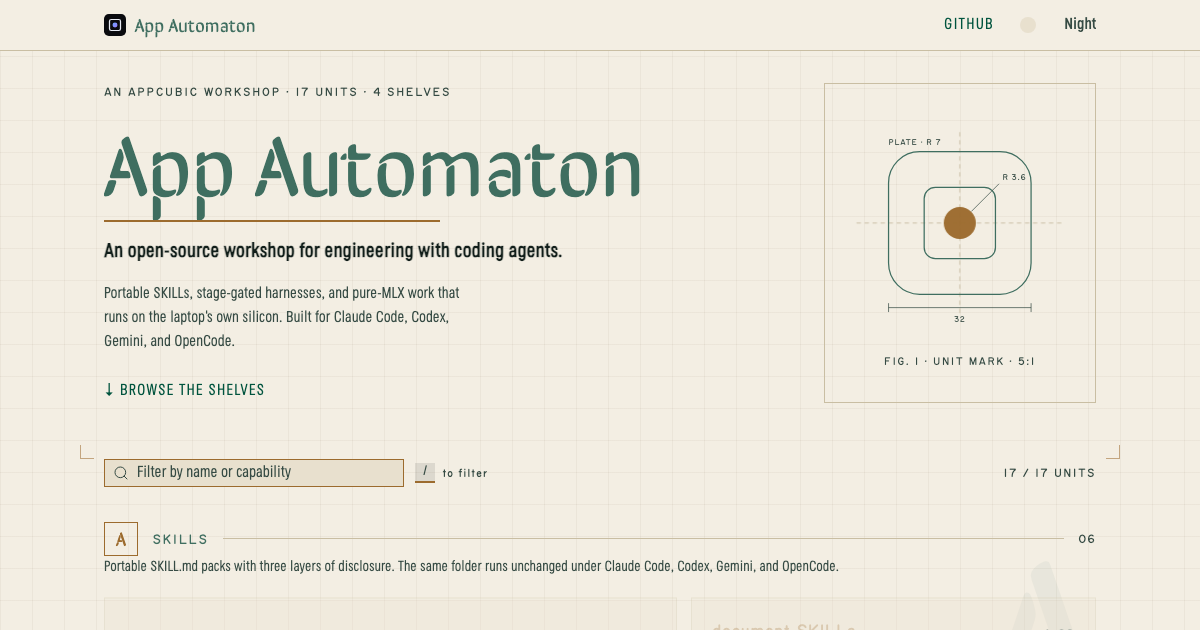
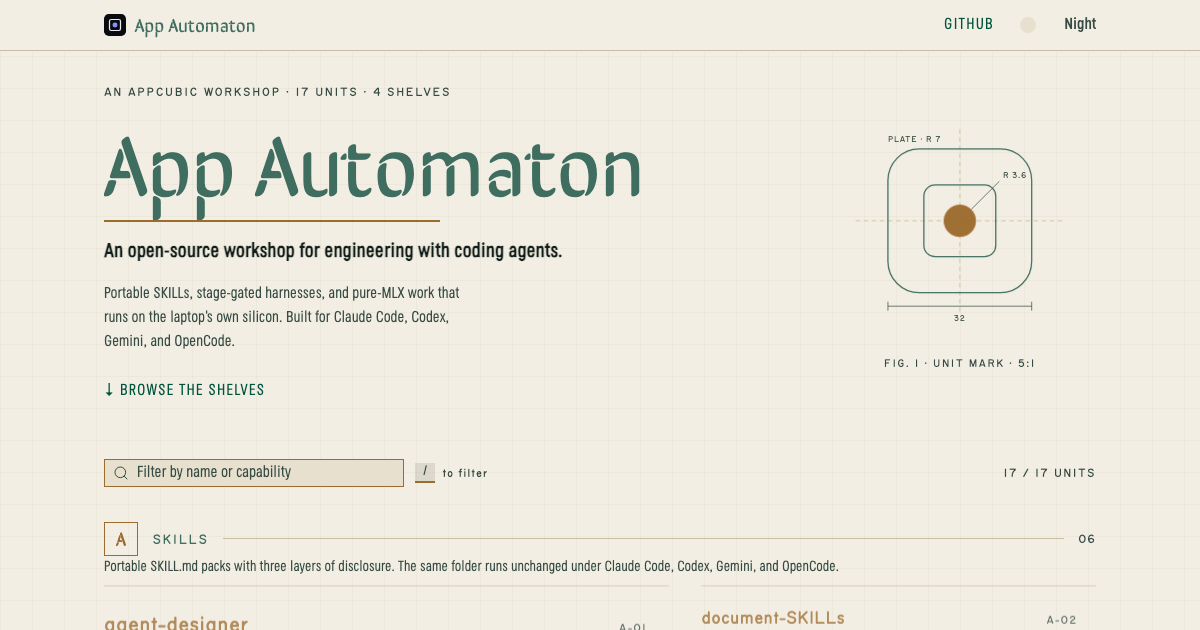
Strip the catalog to gallery restraint
The dark catalog was carrying three competing texture layers: a drafting
grid behind everything, a border-and-fill box plus inset sheen on every
card, ghost shelf letters, and hero registration marks. Toward a quiet
high-museum feel, cut all of it. The grid stays a whisper in day and goes
fully dark at night. Each project becomes a wall-label: no box, no fill, a
single hairline top rule, generous space, and a faint spotlight wash on
hover. The hero mark floats unframed. Also fix a mobile overflow the old
12-track bento caused by forcing eleven column-gaps at every width.

diff --git a/src/workshop.css b/src/workshop.css
@@ -83,58 +83,21 @@
   animation: aa-fade-up 480ms ease 1020ms forwards;
 }
 
-/* Registration marks: the drawing is signed off last. */
-@keyframes aa-reg-in {
-  to {
-    opacity: 0.55;
-  }
-}
-
-.aa-reg {
-  position: absolute;
-  width: 14px;
-  height: 14px;
-  opacity: 0;
-  border: 0 solid var(--aa-brass);
-  animation: aa-reg-in 420ms ease 1180ms forwards;
-  pointer-events: none;
-}
-
-.aa-reg-tl { top: 0; left: 0; border-top-width: 1px; border-left-width: 1px; }
-.aa-reg-tr { top: 0; right: 0; border-top-width: 1px; border-right-width: 1px; }
-.aa-reg-bl { bottom: 0; left: 0; border-bottom-width: 1px; border-left-width: 1px; }
-.aa-reg-br { bottom: 0; right: 0; border-bottom-width: 1px; border-right-width: 1px; }
-
-/* --- Catalog cards: quiet at rest, precise on approach ------------------- */
+/* --- Catalog: each project is a museum wall-label ------------------------
+   No box, no fill. A single hairline top rule, generous space, and a quiet
+   spotlight wash that settles in on hover. */
 
 .aa-card {
-  transition: transform 180ms ease, border-color 180ms ease;
+  transition: background-color 220ms ease, border-top-color 220ms ease;
 }
 
 .aa-card:hover {
-  transform: translateY(-3px);
-  border-color: var(--aa-brass) !important;
+  background-color: var(--aa-card-hover);
+  border-top-color: var(--aa-brass) !important;
 }
 
 .aa-card-name {
   position: relative;
-}
-
-.aa-card-name::after {
-  content: '';
-  position: absolute;
-  left: 0;
-  bottom: -3px;
-  height: 1px;
-  width: 100%;
-  background: var(--color-accent);
-  transform: scaleX(0);
-  transform-origin: left;
-  transition: transform 220ms ease;
-}
-
-.aa-card:hover .aa-card-name::after {
-  transform: scaleX(1);
 }
 
 /* --- Night workbench lamp: a warm pool of light follows the cursor ------- */
@@ -169,13 +132,7 @@
     transform: none;
   }
 
-  .aa-reg {
-    animation: none;
-    opacity: 0.55;
-  }
-
-  .aa-card,
-  .aa-card-name::after {
+  .aa-card {
     transition: none;
   }
 
@@ -283,18 +240,21 @@
   position: relative;
   z-index: 1;
   display: grid;
-  gap: 14px;
-  grid-template-columns: repeat(12, 1fr);
+  column-gap: 2rem;
+  row-gap: 2.75rem;
+  /* Single column on phones. A 12-track grid here would force eleven
+     column-gaps to exist even when every label spans the full width,
+     overflowing the viewport. */
+  grid-template-columns: 1fr;
 }
 
 .aa-cell {
-  grid-column: 1 / -1;
   min-width: 0;
 }
 
 @media (min-width: 620px) and (max-width: 899px) {
-  .aa-cell {
-    grid-column: span 6;
+  .aa-bento {
+    grid-template-columns: repeat(2, 1fr);
   }
 
   .aa-cell-wide {
@@ -303,29 +263,17 @@
 }
 
 @media (min-width: 900px) {
+  .aa-bento {
+    grid-template-columns: repeat(12, 1fr);
+  }
+
   .aa-cell {
     grid-column: span var(--aa-span, 4);
   }
 }
 
-/* --- Ghost letters: each shelf sheet is stamped with its index ----------- */
-
 .aa-shelf {
   position: relative;
-}
-
-.aa-ghost {
-  position: absolute;
-  top: -2.5rem;
-  right: 0;
-  font-family: 'Sirin Stencil', sans-serif;
-  font-size: clamp(9rem, 18vw, 15rem);
-  line-height: 1;
-  color: var(--color-accent);
-  opacity: 0.06;
-  pointer-events: none;
-  user-select: none;
-  z-index: 0;
 }
 
 /* --- Scroll choreography: shelves assemble as they enter the viewport --- */
@@ -350,15 +298,6 @@
   }
 }
 
-@keyframes aa-ghost-drift {
-  from {
-    transform: translateY(2.5rem);
-  }
-  to {
-    transform: translateY(-2.5rem);
-  }
-}
-
 @supports (animation-timeline: view()) {
   @media (prefers-reduced-motion: no-preference) {
     .aa-cell {
@@ -372,12 +311,6 @@
       animation: aa-rail-grow linear both;
       animation-timeline: view();
       animation-range: entry 0% entry 60%;
-    }
-
-    .aa-ghost {
-      animation: aa-ghost-drift linear both;
-      animation-timeline: view();
-      animation-range: entry 0% exit 100%;
     }
   }
 }

diff --git a/src/theme.ts b/src/theme.ts
@@ -12,28 +12,29 @@ import { defineTheme } from '@astryxdesign/core/theme'
 export type Vibe = {
   brass: string
   fontMono: string
-  /* drafting-paper grid line, kept near-invisible */
+  /* drafting-paper grid line. Whisper-faint in day, gone at night so the
+     dark ground reads as a plain gallery wall. */
   gridLine: string
   /* workbench lamp glow for the night cursor spotlight */
   lamp: string
-  /* machined top-edge highlight on cards, like metal catching lamplight */
-  cardSheen: string
+  /* faint warm wash under a wall-label on hover, like a spotlight settling */
+  cardHover: string
 }
 
 export const WORKSHOP_VIBE_DAY: Vibe = {
   brass: '#9C6B2E',
   fontMono: "'Routed Gothic', ui-monospace, monospace",
-  gridLine: 'rgba(96, 74, 42, 0.055)',
+  gridLine: 'rgba(96, 74, 42, 0.04)',
   lamp: 'rgba(0, 0, 0, 0)',
-  cardSheen: 'rgba(255, 253, 246, 0.5)',
+  cardHover: 'rgba(156, 107, 46, 0.05)',
 }
 
 export const WORKSHOP_VIBE_NIGHT: Vibe = {
   brass: '#C08A3E',
   fontMono: "'Routed Gothic', ui-monospace, monospace",
-  gridLine: 'rgba(214, 158, 84, 0.05)',
-  lamp: 'rgba(216, 160, 88, 0.09)',
-  cardSheen: 'rgba(216, 160, 88, 0.09)',
+  gridLine: 'transparent',
+  lamp: 'rgba(216, 160, 88, 0.07)',
+  cardHover: 'rgba(216, 160, 88, 0.05)',
 }
 
 export const workshopTheme = defineTheme({

diff --git a/src/components/Shelf.tsx b/src/components/Shelf.tsx
@@ -8,10 +8,6 @@ export function Shelf({ shelf }: { shelf: ShelfData }) {
       className="aa-shelf"
       style={{ margin: '0 0 3.5rem' }}
     >
-      <div className="aa-ghost" aria-hidden="true">
-        {shelf.letter}
-      </div>
-
       {/* Shelf plate: index letter, label, rail, unit count */}
       <div style={{ display: 'flex', alignItems: 'center', gap: '0.9rem' }}>
         <div
@@ -90,11 +86,13 @@ export function Shelf({ shelf }: { shelf: ShelfData }) {
                 style={{
                   height: '100%',
                   padding: featured
-                    ? '1.5rem 1.5rem 1.35rem'
-                    : '1.2rem 1.25rem 1.15rem',
-                  border: '1px solid var(--color-border)',
+                    ? '1.4rem 1.4rem 1.5rem 0'
+                    : '1.15rem 1.15rem 1.35rem 0',
+                  background: 'transparent',
+                  border: 'none',
+                  borderTop: '1px solid var(--color-border)',
                   borderRadius: 0,
-                  boxShadow: 'inset 0 1px 0 var(--aa-card-sheen)',
+                  boxShadow: 'none',
                 }}
               >
                 <Stack gap={2} style={{ height: '100%' }}>

diff --git a/src/components/Hero.tsx b/src/components/Hero.tsx
@@ -40,11 +40,6 @@ export function Hero() {
         padding: '4.5rem 1.5rem 3.5rem',
       }}
     >
-      <span className="aa-reg aa-reg-tl" aria-hidden="true" />
-      <span className="aa-reg aa-reg-tr" aria-hidden="true" />
-      <span className="aa-reg aa-reg-bl" aria-hidden="true" />
-      <span className="aa-reg aa-reg-br" aria-hidden="true" />
-
       <div
         style={{
           display: 'flex',
@@ -117,7 +112,7 @@ export function Hero() {
           </Link>
         </Stack>
 
-        {/* The mark's own drawing sheet */}
+        {/* The mark's own drawing, floated on the wall */}
         <div
           className="aa-hero-after"
           style={{
@@ -127,8 +122,7 @@ export function Hero() {
             flexDirection: 'column',
             alignItems: 'center',
             justifyContent: 'center',
-            gap: '0.9rem',
-            border: '1px solid var(--color-border)',
+            gap: '1.1rem',
             padding: '1.6rem 1.2rem 1.1rem',
           }}
         >

diff --git a/src/App.tsx b/src/App.tsx
@@ -57,7 +57,7 @@ function App() {
         '--aa-font-mono': vibe.fontMono,
         '--aa-grid-line': vibe.gridLine,
         '--aa-lamp': vibe.lamp,
-        '--aa-card-sheen': vibe.cardSheen,
+        '--aa-card-hover': vibe.cardHover,
       }}
     >
       <Theme theme={workshopTheme} mode={mode}>